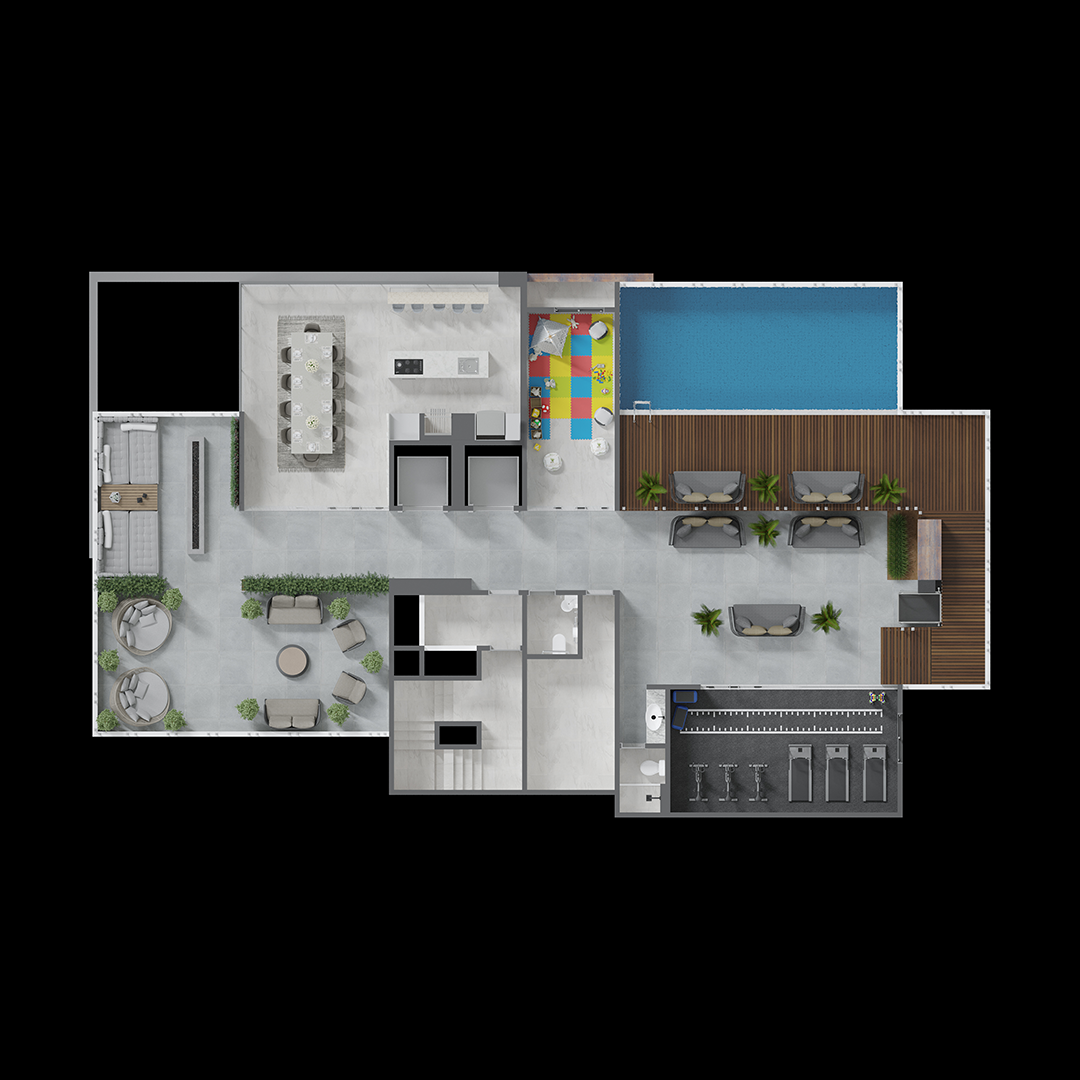
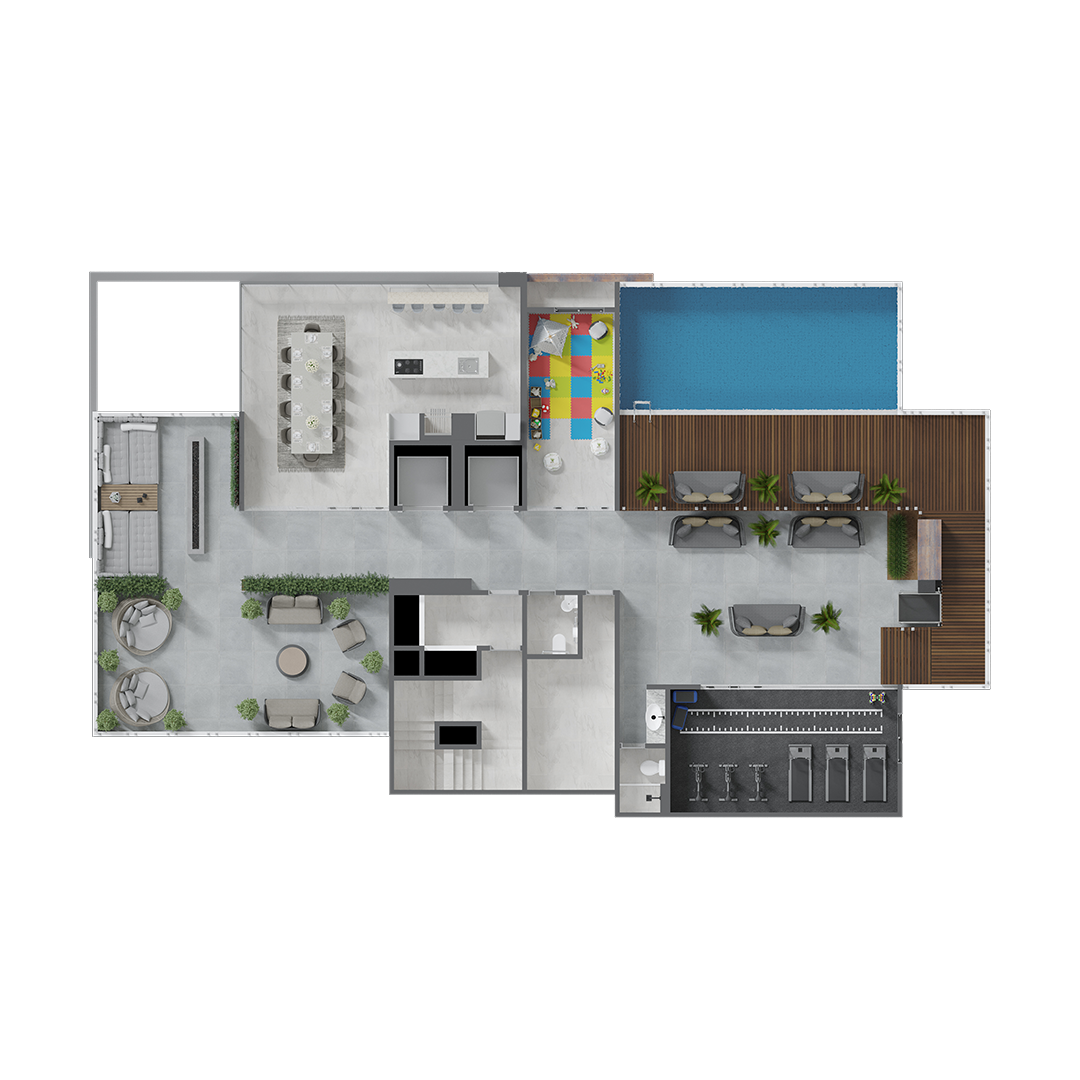
refactor: change full screen bg color to white

diff --git a/src/components/enterprisesInternalPage/detailsSlider/FullScreenSliderDialog.tsx b/src/components/enterprisesInternalPage/detailsSlider/FullScreenSliderDialog.tsx
@@ -10,7 +10,7 @@ import { TransitionProps } from '@mui/material/transitions';
 import { Box, Stack } from '@mui/material';
 import ArrowBackIosIcon from '@mui/icons-material/ArrowBackIos';
 import ArrowForwardIosIcon from '@mui/icons-material/ArrowForwardIos';
-import { defaultSvgProps } from '../../constants/defaultSvgProps';
+import { defaultSvgProps } from '../../../constants/defaultSvgProps';
 import useEmblaCarousel from 'embla-carousel-react'
 import Image from 'next/image';
 
@@ -71,15 +71,8 @@ const buttonProps = {
   }
 }
 
-const Slider = ({ images }) => {
-  const [emblaRef, emblaApi] = useEmblaCarousel({ loop: true })
-  const [selectedSlide, setSelectedSlide] = useState(0)
-
-  useEffect(() => {
-    if (emblaApi) {
-      // Embla API is ready
-    }    
-  }, [emblaApi])
+const Slider = ({ images, startIndex }) => {
+  const [emblaRef, emblaApi] = useEmblaCarousel({ loop: true, startIndex })
 
   const scrollPrev = useCallback(() => {
     if (emblaApi) emblaApi.scrollPrev()
@@ -89,9 +82,9 @@ const Slider = ({ images }) => {
     if (emblaApi) emblaApi.scrollNext()
   }, [emblaApi])
 
-  emblaApi?.on('select', () => {
-    setSelectedSlide(emblaApi.selectedScrollSnap())
-  })
+  // emblaApi?.on('select', () => {
+  //   setSelectedSlide(emblaApi.selectedScrollSnap())
+  // })
 
   return (
     <Stack direction='row' alignItems='center' sx={{ height: '100%', width: '100%' }}>
@@ -103,7 +96,7 @@ const Slider = ({ images }) => {
           <Box sx={{ height: '100%' }} ref={emblaRef}>
             <Box sx={sxEmblaContainer}>
               {images.map((image, index) => (
-                <Box bgcolor='#000' sx={sxEmblaSlide} key={index} >
+                <Box bgcolor='#fff' sx={sxEmblaSlide} key={index} >
                   <Image
                     src={image}
                     alt='Image'
@@ -124,7 +117,7 @@ const Slider = ({ images }) => {
   )
 }
 
-export default function FullScreenSliderDialog({ open, handleClose, images }) {
+export default function FullScreenSliderDialog({ open, handleClose, images, selectedSlide }) {
   return (
       <Dialog
         fullScreen
@@ -149,7 +142,7 @@ export default function FullScreenSliderDialog({ open, handleClose, images }) {
           </Toolbar>
         </AppBar>
         <Box sx={{ height: '100%', overflowX: 'hidden' }}>
-          <Slider images={images} />
+          <Slider images={images} startIndex={selectedSlide} />
         </Box>
       </Dialog>
   )

diff --git a/src/components/enterprisesInternalPage/detailsSlider/DetailsSlider.tsx b/src/components/enterprisesInternalPage/detailsSlider/DetailsSlider.tsx
@@ -5,7 +5,7 @@ import Image from 'next/image'
 import LeftArrow from '../../../../public/vectors/arrows/left-arrow.svg'
 import RightArrow from '../../../../public/vectors/arrows/right-arrow.svg'
 import { defaultSvgProps } from '../../../constants/defaultSvgProps'
-import FullScreenSliderDialog from '../FullScreenSliderDialog'
+import FullScreenSliderDialog from './FullScreenSliderDialog'
 
 const defaultButtonProps = {
   zIndex: 500,
@@ -62,21 +62,15 @@ const Slide = ({ image, selectedSlide, index }) => {
 
 export const DetailsSlider = ({ images }) => {
   const [emblaRef, emblaApi] = useEmblaCarousel({ loop: true, draggable: false })
-  const [selectedSlide, setSelectedSlide] = useState(0)
-  const [open, setOpen] = useState(false);
-
-  useEffect(() => {
-    if (emblaApi) {
-      // Embla API is ready
-    }
-  }, [emblaApi])
+  const [selectedSlide, setSelectedSlide] = useState<number>(0);
+  const [fullScreen, setFullScreen] = useState<boolean>(false);
 
   const handleClickOpen = () => {
-    setOpen(true);
+    setFullScreen(true);
   };
 
   const handleClose = () => {
-    setOpen(false);
+    setFullScreen(false);
   };
 
   const scrollPrev = useCallback(() => {
@@ -113,9 +107,10 @@ export const DetailsSlider = ({ images }) => {
         </Box>
       </Stack>
       <FullScreenSliderDialog
-        open={open}
+        open={fullScreen}
         handleClose={handleClose}
         images={images}
+        selectedSlide={selectedSlide}
       />
     </>
   )
